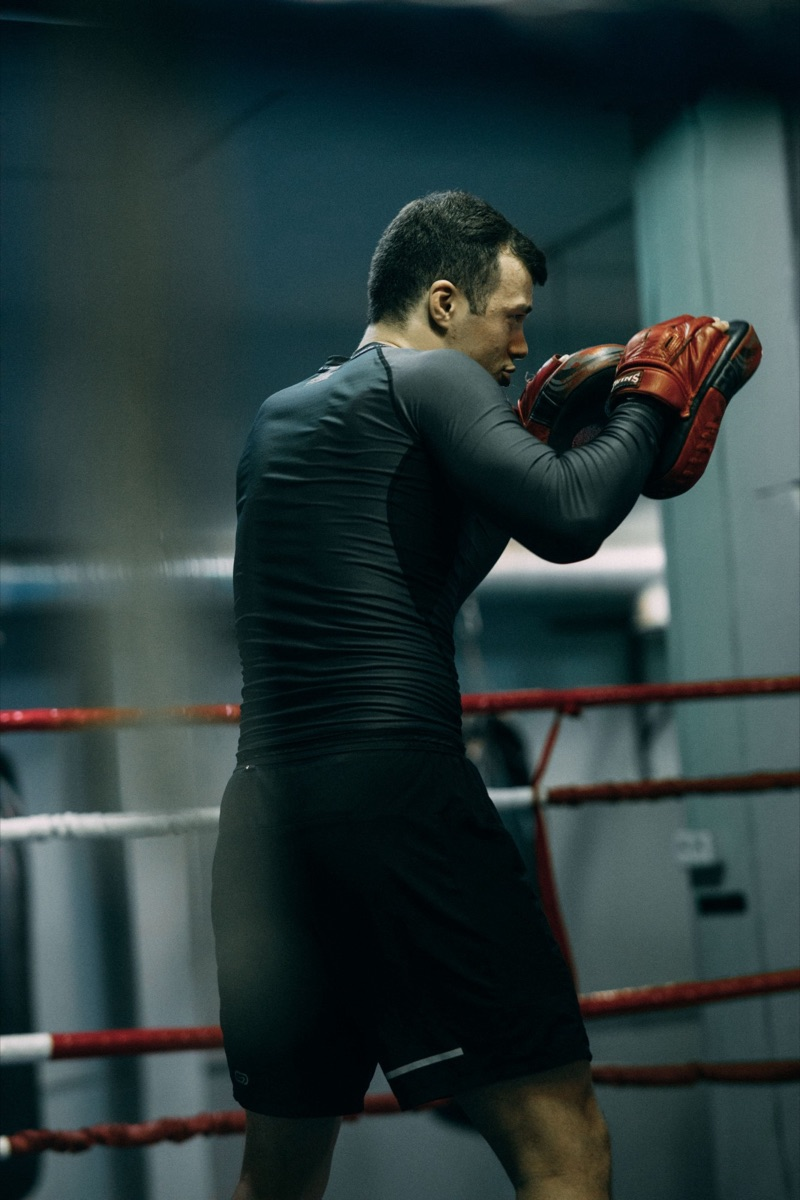
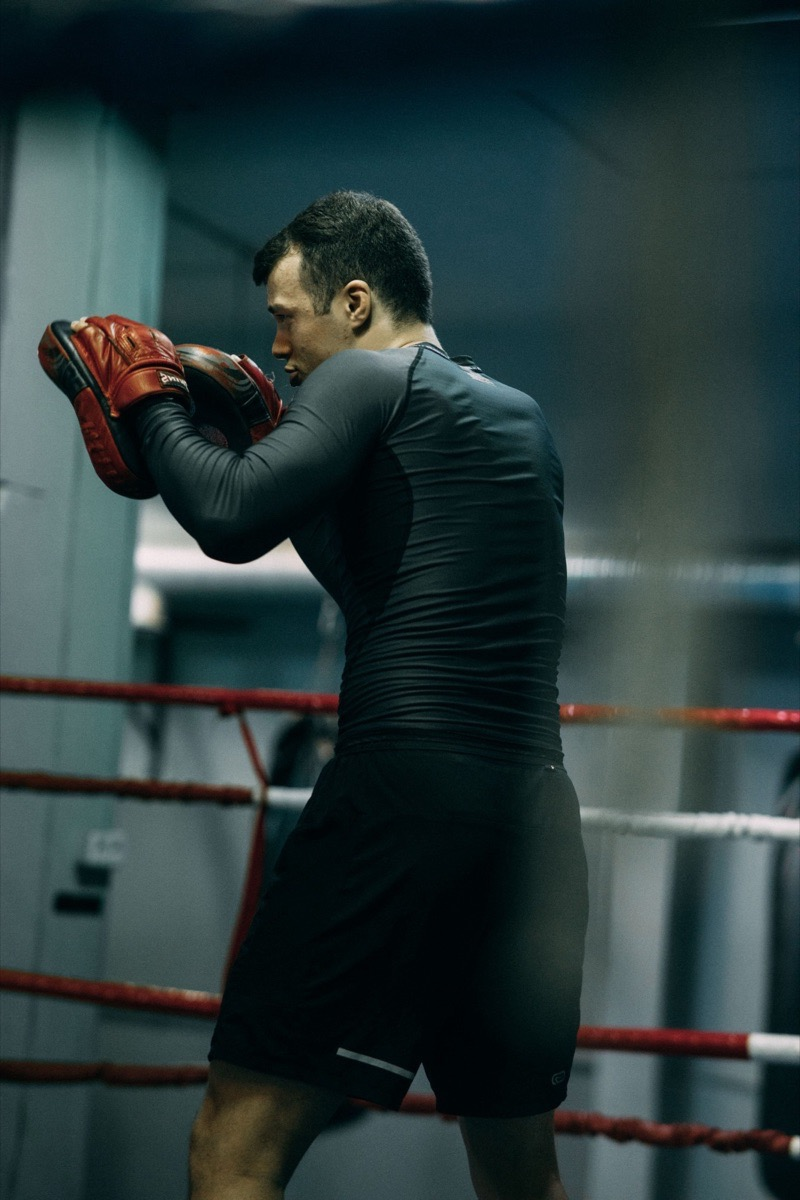
Hero: mirror photo so boxer faces left; text left, photo right

diff --git a/en/index.html b/en/index.html
@@ -133,7 +133,7 @@
     /* ─── HERO: full-width photo (two boxers sparring) under a dark veil, headline centred in the gap between them. ─── */
     .poster { position: relative; overflow: hidden; isolation: isolate; background: var(--navy); min-height: max(700px, calc(100svh - 68px)); }
     .poster-photo { position: absolute; inset: 0; z-index: 0; }
-    .poster-photo img { display: block; width: 100%; height: 100%; object-fit: cover; object-position: 50% 24%; }
+    .poster-photo img { display: block; width: 100%; height: 100%; object-fit: cover; object-position: 12% 24%; }
     .poster-photo::after { content: ""; position: absolute; inset: 0;
       background: radial-gradient(60% 55% at 50% 52%, rgba(5,5,6,0.62), rgba(5,5,6,0.2) 80%), linear-gradient(180deg, rgba(5,5,6,0.35), rgba(5,5,6,0.1) 40%, rgba(5,5,6,0.55)); }
     .poster::after { content: ""; position: absolute; left: 0; right: 0; bottom: 0; height: 34%; z-index: 3; pointer-events: none; background: linear-gradient(180deg, rgba(7,7,10,0), rgba(7,7,10,0.85) 70%, var(--bg)); }
@@ -150,12 +150,12 @@
     .p-cta .member-note { color: #A8A8A8; font-size: 13px; }
     .p-cta .btn-primary { border-radius: 14px; transition: transform 0.2s ease, box-shadow 0.2s ease, background-color 0.2s ease, translate 0.18s ease-out; }
 
-    /* desktop: the sharp portrait photo on the left fading into the dark, text on the right */
+    /* desktop: text on the left, the sharp portrait photo (boxer facing left) on the right fading into the dark */
     @media (min-width: 861px) {
-      .poster-photo { right: auto; width: min(52%, 1100px); -webkit-mask-image: linear-gradient(270deg, transparent 0, #000 38%); mask-image: linear-gradient(270deg, transparent 0, #000 38%); }
+      .poster-photo { left: auto; width: min(52%, 1100px); -webkit-mask-image: linear-gradient(90deg, transparent 0, #000 38%); mask-image: linear-gradient(90deg, transparent 0, #000 38%); }
       .poster-photo img { object-position: 50% 22%; }
       .poster-photo::after { background: linear-gradient(180deg, rgba(5,5,6,0.25), rgba(5,5,6,0) 35%, rgba(5,5,6,0.4)); }
-      .p-about { left: auto; right: max(48px, calc((100vw - 1240px) / 2)); margin: 0; width: min(540px, 44vw); text-align: left; }
+      .p-about { left: max(48px, calc((100vw - 1240px) / 2)); right: auto; margin: 0; width: min(540px, 44vw); text-align: left; }
       .p-cta .cta-block { align-items: flex-start; }
     }
     /* Above the fold, so it fades in at once instead of waiting for the scroll-reveal script. */

diff --git a/index.html b/index.html
@@ -133,7 +133,7 @@
     /* ─── HERO: full-width photo (two boxers sparring) under a dark veil, headline centred in the gap between them. ─── */
     .poster { position: relative; overflow: hidden; isolation: isolate; background: var(--navy); min-height: max(700px, calc(100svh - 68px)); }
     .poster-photo { position: absolute; inset: 0; z-index: 0; }
-    .poster-photo img { display: block; width: 100%; height: 100%; object-fit: cover; object-position: 50% 24%; }
+    .poster-photo img { display: block; width: 100%; height: 100%; object-fit: cover; object-position: 12% 24%; }
     .poster-photo::after { content: ""; position: absolute; inset: 0;
       background: radial-gradient(60% 55% at 50% 52%, rgba(5,5,6,0.62), rgba(5,5,6,0.2) 80%), linear-gradient(180deg, rgba(5,5,6,0.35), rgba(5,5,6,0.1) 40%, rgba(5,5,6,0.55)); }
     .poster::after { content: ""; position: absolute; left: 0; right: 0; bottom: 0; height: 34%; z-index: 3; pointer-events: none; background: linear-gradient(180deg, rgba(7,7,10,0), rgba(7,7,10,0.85) 70%, var(--bg)); }
@@ -150,12 +150,12 @@
     .p-cta .member-note { color: #A8A8A8; font-size: 13px; }
     .p-cta .btn-primary { border-radius: 14px; transition: transform 0.2s ease, box-shadow 0.2s ease, background-color 0.2s ease, translate 0.18s ease-out; }
 
-    /* desktop: the sharp portrait photo on the left fading into the dark, text on the right */
+    /* desktop: text on the left, the sharp portrait photo (boxer facing left) on the right fading into the dark */
     @media (min-width: 861px) {
-      .poster-photo { right: auto; width: min(52%, 1100px); -webkit-mask-image: linear-gradient(270deg, transparent 0, #000 38%); mask-image: linear-gradient(270deg, transparent 0, #000 38%); }
+      .poster-photo { left: auto; width: min(52%, 1100px); -webkit-mask-image: linear-gradient(90deg, transparent 0, #000 38%); mask-image: linear-gradient(90deg, transparent 0, #000 38%); }
       .poster-photo img { object-position: 50% 22%; }
       .poster-photo::after { background: linear-gradient(180deg, rgba(5,5,6,0.25), rgba(5,5,6,0) 35%, rgba(5,5,6,0.4)); }
-      .p-about { left: auto; right: max(48px, calc((100vw - 1240px) / 2)); margin: 0; width: min(540px, 44vw); text-align: left; }
+      .p-about { left: max(48px, calc((100vw - 1240px) / 2)); right: auto; margin: 0; width: min(540px, 44vw); text-align: left; }
       .p-cta .cta-block { align-items: flex-start; }
     }
     /* Above the fold, so it fades in at once instead of waiting for the scroll-reveal script. */

diff --git a/ru/index.html b/ru/index.html
@@ -133,7 +133,7 @@
     /* ─── HERO: full-width photo (two boxers sparring) under a dark veil, headline centred in the gap between them. ─── */
     .poster { position: relative; overflow: hidden; isolation: isolate; background: var(--navy); min-height: max(700px, calc(100svh - 68px)); }
     .poster-photo { position: absolute; inset: 0; z-index: 0; }
-    .poster-photo img { display: block; width: 100%; height: 100%; object-fit: cover; object-position: 50% 24%; }
+    .poster-photo img { display: block; width: 100%; height: 100%; object-fit: cover; object-position: 12% 24%; }
     .poster-photo::after { content: ""; position: absolute; inset: 0;
       background: radial-gradient(60% 55% at 50% 52%, rgba(5,5,6,0.62), rgba(5,5,6,0.2) 80%), linear-gradient(180deg, rgba(5,5,6,0.35), rgba(5,5,6,0.1) 40%, rgba(5,5,6,0.55)); }
     .poster::after { content: ""; position: absolute; left: 0; right: 0; bottom: 0; height: 34%; z-index: 3; pointer-events: none; background: linear-gradient(180deg, rgba(7,7,10,0), rgba(7,7,10,0.85) 70%, var(--bg)); }
@@ -150,12 +150,12 @@
     .p-cta .member-note { color: #A8A8A8; font-size: 13px; }
     .p-cta .btn-primary { border-radius: 14px; transition: transform 0.2s ease, box-shadow 0.2s ease, background-color 0.2s ease, translate 0.18s ease-out; }
 
-    /* desktop: the sharp portrait photo on the left fading into the dark, text on the right */
+    /* desktop: text on the left, the sharp portrait photo (boxer facing left) on the right fading into the dark */
     @media (min-width: 861px) {
-      .poster-photo { right: auto; width: min(52%, 1100px); -webkit-mask-image: linear-gradient(270deg, transparent 0, #000 38%); mask-image: linear-gradient(270deg, transparent 0, #000 38%); }
+      .poster-photo { left: auto; width: min(52%, 1100px); -webkit-mask-image: linear-gradient(90deg, transparent 0, #000 38%); mask-image: linear-gradient(90deg, transparent 0, #000 38%); }
       .poster-photo img { object-position: 50% 22%; }
       .poster-photo::after { background: linear-gradient(180deg, rgba(5,5,6,0.25), rgba(5,5,6,0) 35%, rgba(5,5,6,0.4)); }
-      .p-about { left: auto; right: max(48px, calc((100vw - 1240px) / 2)); margin: 0; width: min(540px, 44vw); text-align: left; }
+      .p-about { left: max(48px, calc((100vw - 1240px) / 2)); right: auto; margin: 0; width: min(540px, 44vw); text-align: left; }
       .p-cta .cta-block { align-items: flex-start; }
     }
     /* Above the fold, so it fades in at once instead of waiting for the scroll-reveal script. */

diff --git a/src/index.template.html b/src/index.template.html
@@ -133,7 +133,7 @@
     /* ─── HERO: full-width photo (two boxers sparring) under a dark veil, headline centred in the gap between them. ─── */
     .poster { position: relative; overflow: hidden; isolation: isolate; background: var(--navy); min-height: max(700px, calc(100svh - 68px)); }
     .poster-photo { position: absolute; inset: 0; z-index: 0; }
-    .poster-photo img { display: block; width: 100%; height: 100%; object-fit: cover; object-position: 50% 24%; }
+    .poster-photo img { display: block; width: 100%; height: 100%; object-fit: cover; object-position: 12% 24%; }
     .poster-photo::after { content: ""; position: absolute; inset: 0;
       background: radial-gradient(60% 55% at 50% 52%, rgba(5,5,6,0.62), rgba(5,5,6,0.2) 80%), linear-gradient(180deg, rgba(5,5,6,0.35), rgba(5,5,6,0.1) 40%, rgba(5,5,6,0.55)); }
     .poster::after { content: ""; position: absolute; left: 0; right: 0; bottom: 0; height: 34%; z-index: 3; pointer-events: none; background: linear-gradient(180deg, rgba(7,7,10,0), rgba(7,7,10,0.85) 70%, var(--bg)); }
@@ -150,12 +150,12 @@
     .p-cta .member-note { color: #A8A8A8; font-size: 13px; }
     .p-cta .btn-primary { border-radius: 14px; transition: transform 0.2s ease, box-shadow 0.2s ease, background-color 0.2s ease, translate 0.18s ease-out; }
 
-    /* desktop: the sharp portrait photo on the left fading into the dark, text on the right */
+    /* desktop: text on the left, the sharp portrait photo (boxer facing left) on the right fading into the dark */
     @media (min-width: 861px) {
-      .poster-photo { right: auto; width: min(52%, 1100px); -webkit-mask-image: linear-gradient(270deg, transparent 0, #000 38%); mask-image: linear-gradient(270deg, transparent 0, #000 38%); }
+      .poster-photo { left: auto; width: min(52%, 1100px); -webkit-mask-image: linear-gradient(90deg, transparent 0, #000 38%); mask-image: linear-gradient(90deg, transparent 0, #000 38%); }
       .poster-photo img { object-position: 50% 22%; }
       .poster-photo::after { background: linear-gradient(180deg, rgba(5,5,6,0.25), rgba(5,5,6,0) 35%, rgba(5,5,6,0.4)); }
-      .p-about { left: auto; right: max(48px, calc((100vw - 1240px) / 2)); margin: 0; width: min(540px, 44vw); text-align: left; }
+      .p-about { left: max(48px, calc((100vw - 1240px) / 2)); right: auto; margin: 0; width: min(540px, 44vw); text-align: left; }
       .p-cta .cta-block { align-items: flex-start; }
     }
     /* Above the fold, so it fades in at once instead of waiting for the scroll-reveal script. */

diff --git a/PROGRESS.md b/PROGRESS.md
@@ -172,7 +172,7 @@ _Last updated: 2026-11-18_
   Remaining: step 6 big footer wordmark.
 - 2026-11-19 — Branch `footer-wordmark` (preview only), step 6 of 6: big faded FIGHTBASE wordmark across the bottom of the footer (brand name, so no
   translation needed; decorative, hidden from screen readers). Checked at 390/1440/2400px in ET/RU/EN, no sideways scroll. This finishes the 6-step redesign.
-- 2026-11-26 — Branch `new-hero-photo` (preview only): hero uses Jen's sharper portrait photo of the boxer with pads (`assets/hero-boxer.jpg`, 175 KB). Desktop: photo left fading into dark, text right (Jen asked to flip sides; photo itself not mirrored); phone/tablet: photo full-bleed with text at the bottom. Old `hero-sparring*.jpg` now unused but kept. Checked 390/768/1000/1440/2400, ET/RU/EN, no sideways scroll.
+- 2026-11-26 — Branch `new-hero-photo` (preview only): hero uses Jen's sharper portrait photo of the boxer with pads (`assets/hero-boxer.jpg`, 175 KB). Desktop: text left, photo right fading into dark; photo is mirrored so the boxer faces left (Jen asked); phone/tablet: photo full-bleed with text at the bottom. Old `hero-sparring*.jpg` now unused but kept. Checked 390/768/1000/1440/2400, ET/RU/EN, no sideways scroll.
 
 ## Next
 - Rewrite Terms and Privacy for the coach tool: coaches enter members' personal data, so
